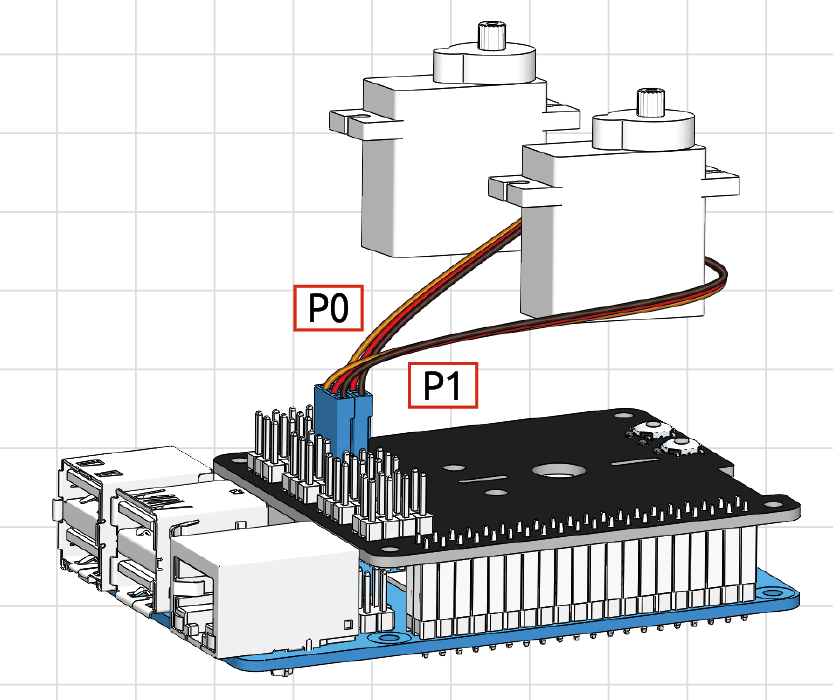
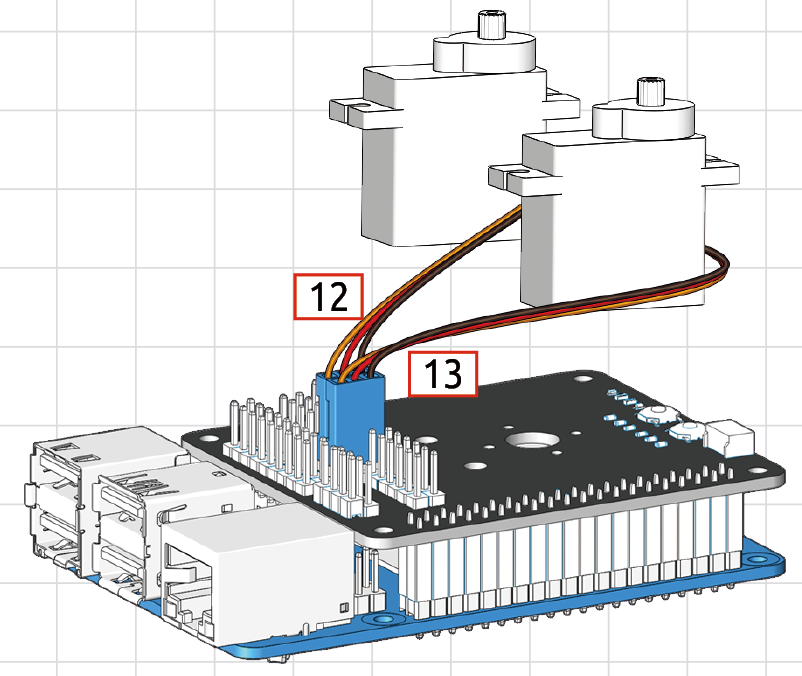
update servo-zeroing

diff --git a/docs/source/python/preparation/download_and_run_code.rst b/docs/source/python/preparation/download_and_run_code.rst
@@ -40,7 +40,7 @@ To make sure you can see that the servo has been set to 0°, you can insert a ro
 .. image:: media/servo_arm.png
     :align: center
 
-Now follow the diagram below and insert the servo to the P0/P1 position.
+Now follow the diagram below and insert the servo to the 12/13 position.
 
 
 .. image:: media/sp211112_112507.png
